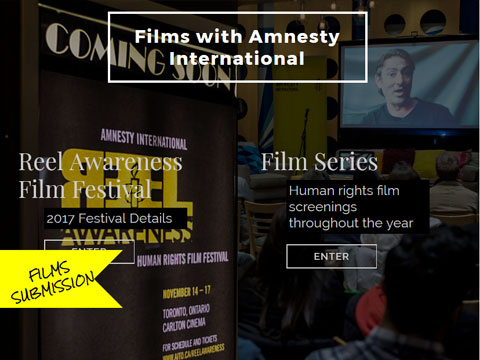
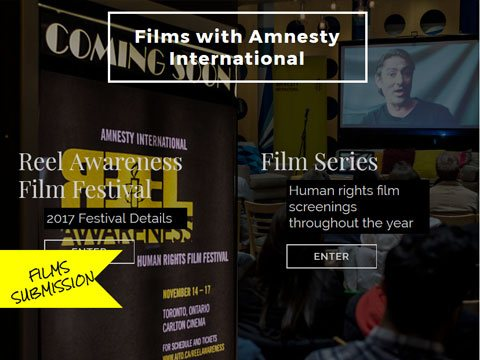
Optimized images and js file.

diff --git a/js/main.js b/js/main.js
@@ -1,19 +1,1 @@
-$(document).ready(function( ) {
-
-    // only run this script if window size is wide
-    if ($(window).width() >= 820) {
-        $('#nav a[href*="#"]:not([href="#"])').click(function () {
-            if (location.pathname.replace(/^\//, '') == this.pathname.replace(/^\//, '') && location.hostname == this.hostname) {
-                var target = $(this.hash);
-                target = target.length ? target : $('[name=' + this.hash.slice(1) + ']');
-                if (target.length) {
-                    $('html, body').animate({
-                        scrollTop: target.offset().top
-                    }, 1000);
-                    return false;
-                }
-            }
-        });
-    }
-
-});
+$(document).ready(function(){if($(window).width()>=820){$('#nav a[href*="#"]:not([href="#"])').click(function(){if(location.pathname.replace(/^\//,'')==this.pathname.replace(/^\//,'')&&location.hostname==this.hostname){var target=$(this.hash);target=target.length?target:$('[name='+this.hash.slice(1)+']');if(target.length){$('html, body').animate({scrollTop:target.offset().top},1000);return false;}}});}});
